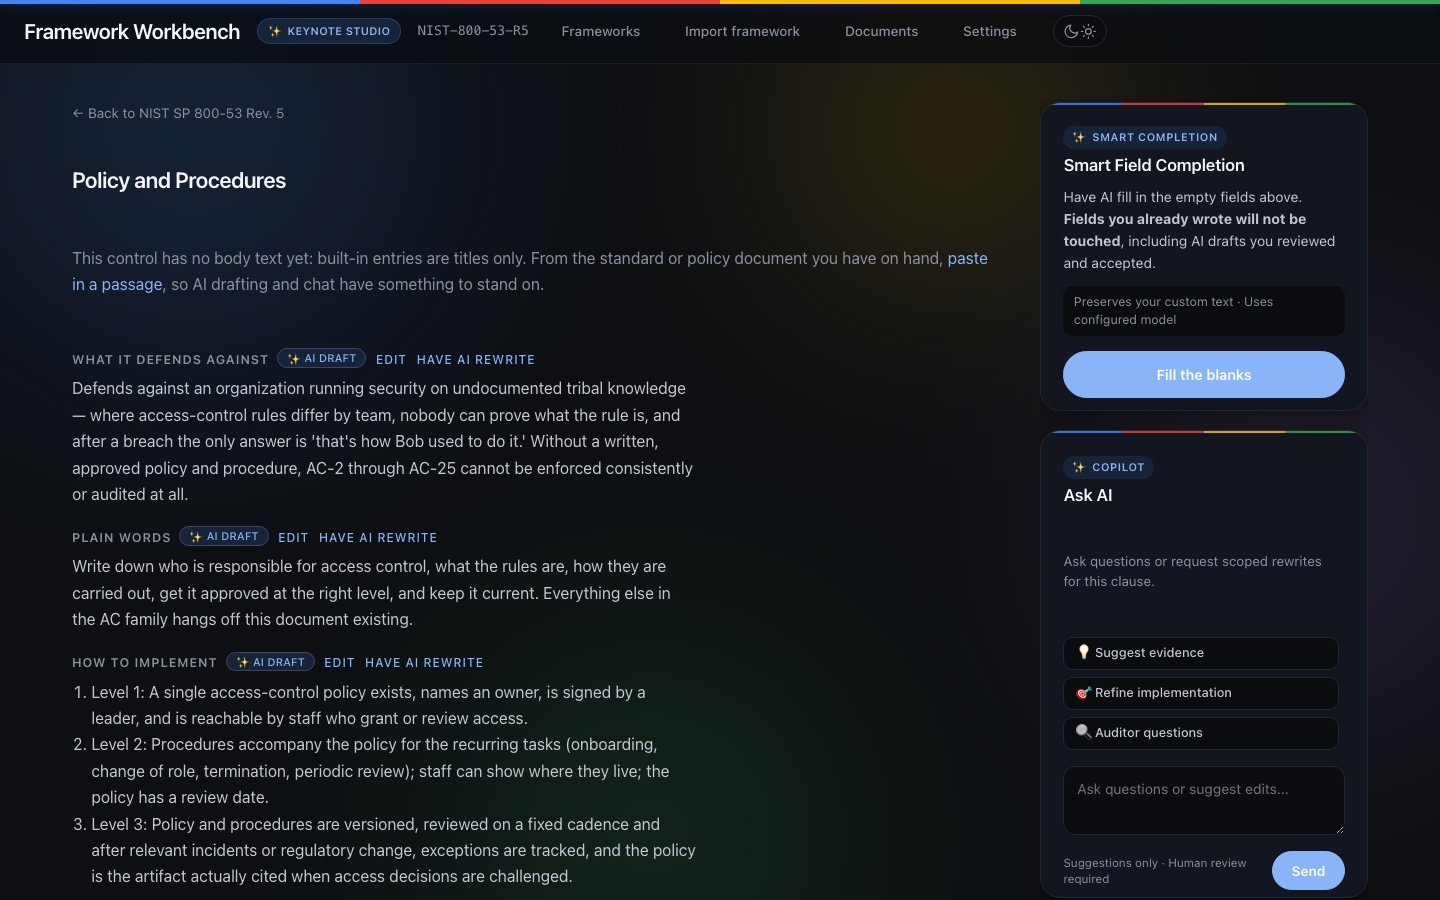
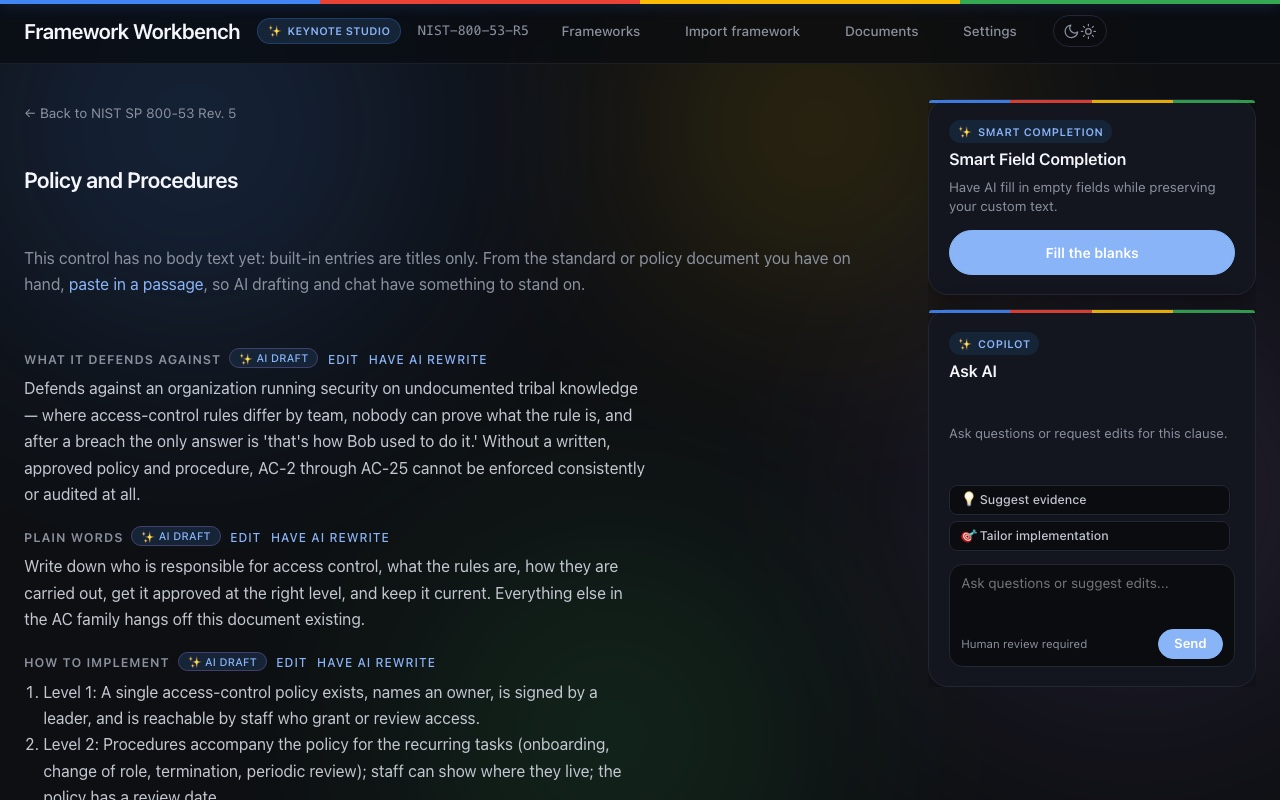
fix: restore full sticky scroll tracking and eliminate UI clipping on right sidebar

diff --git a/src/framework_reader/web/views.py b/src/framework_reader/web/views.py
@@ -1220,9 +1220,7 @@ def control(
             '<span class="card-badge confirm">🛡 Verification</span>'
             '<h4 class="card-title">Confirm Control</h4>'
             '</div>'
-            '<p>Do you stand behind the words above? Confirming records that you signed it, and when. '
-            "Any later change voids this sign-off.</p>"
-            '<div class="hint">Records signature timestamp to the audit ledger.</div>'
+            '<p class="card-desc">Do you stand behind these entries? Confirming records your signature in the audit ledger.</p>'
             '<button type="submit">I confirm this control</button>'
             "</form>"
         )
@@ -1298,14 +1296,13 @@ def _clause_chat(control_id: str, turns: list) -> str:
     prompt_chips = (
         '<div class="prompt-chips">'
         '<button type="button" class="chip" onclick="var t=this.closest(\'.chat\').querySelector(\'textarea\');t.value=this.dataset.p;t.focus();" data-p="What evidence does this control usually require?">💡 Suggest evidence</button>'
-        '<button type="button" class="chip" onclick="var t=this.closest(\'.chat\').querySelector(\'textarea\');t.value=this.dataset.p;t.focus();" data-p="Make \'How to implement\' more specific for our infrastructure">🎯 Refine implementation</button>'
-        '<button type="button" class="chip" onclick="var t=this.closest(\'.chat\').querySelector(\'textarea\');t.value=this.dataset.p;t.focus();" data-p="What will auditors verify during examination?">🔍 Auditor questions</button>'
+        '<button type="button" class="chip" onclick="var t=this.closest(\'.chat\').querySelector(\'textarea\');t.value=this.dataset.p;t.focus();" data-p="Make \'How to implement\' more specific for our infrastructure">🎯 Tailor implementation</button>'
         '</div>'
     )
 
     empty_state = (
         '<div class="chat-empty">'
-        '<p class="empty">Ask questions or request scoped rewrites for this clause.</p>'
+        '<p class="empty">Ask questions or request edits for this clause.</p>'
         + prompt_chips +
         '</div>'
     )
@@ -1321,50 +1318,54 @@ def _clause_chat(control_id: str, turns: list) -> str:
         '</div>'
         f'<div class="thread">{thread_content}</div>'
         f'<form method="post" action="/c/{control_id}/chat" class="chat-composer">'
+        '<div class="composer-box">'
         '<textarea name="message" rows="2" placeholder="Ask questions or suggest edits..."></textarea>'
         '<div class="composer-foot">'
-        '<span class="cost-hint">Suggestions only · Human review required</span>'
+        '<span class="cost-hint">Human review required</span>'
         '<button type="submit">Send</button>'
+        '</div>'
         '</div>'
         "</form></div>"
     )
 
 
 _CHAT_CSS = """
-.said{padding:.75rem .95rem;margin:0 0 .85rem;background:var(--surface);
-  border-radius:16px;border:1px solid var(--rule);box-shadow:var(--card-shadow);
+.said{padding:.65rem .85rem;margin:0 0 .75rem;background:var(--surface);
+  border-radius:14px;border:1px solid var(--rule);box-shadow:var(--card-shadow);
   word-break:break-word}
 .said.mine{background:var(--accent-soft);border-color:rgba(66,133,244,.28);
   border-top-right-radius:4px}
 .said.ai{background:var(--sunk);border-color:rgba(155,114,203,.25);
   border-top-left-radius:4px}
-.said .who{font-family:var(--han);font-size:.76rem;font-weight:600;color:var(--muted);
+.said .who{font-family:var(--han);font-size:.74rem;font-weight:600;color:var(--muted);
   display:inline-flex;align-items:center;gap:.35rem}
-.said p{margin:.35rem 0 0;white-space:pre-wrap;font-size:.9rem;line-height:1.55;color:var(--ink)}
-.said form{background:none;border:0;padding:0;box-shadow:none;margin-top:.4rem}
-.said form button.ghost{font-size:.78rem;padding:.25rem .65rem;background:var(--accent);
+.said p{margin:.3rem 0 0;white-space:pre-wrap;font-size:.88rem;line-height:1.5;color:var(--ink)}
+.said form{background:none;border:0;padding:0;box-shadow:none;margin-top:.35rem}
+.said form button.ghost{font-size:.76rem;padding:.2rem .6rem;background:var(--accent);
   border:0;color:#fff;border-radius:6px;cursor:pointer;margin-left:.4rem;font-weight:600}
 .said form button.ghost:hover{opacity:.9}
-.doing .chat-empty{padding:.15rem 0}
-.doing .chat-empty .empty{font-size:.84rem;color:var(--muted);margin:0 0 .85rem;line-height:1.5}
-.doing .prompt-chips{display:flex;flex-direction:column;gap:.45rem}
+.doing .chat-empty{padding:.1rem 0}
+.doing .chat-empty .empty{font-size:.82rem;color:var(--muted);margin:0 0 .65rem;line-height:1.45}
+.doing .prompt-chips{display:flex;flex-direction:column;gap:.35rem}
 .doing .prompt-chips .chip{background:var(--sunk);border:1px solid var(--rule);
-  border-radius:10px;padding:.45rem .7rem;font-size:.8rem;color:var(--body);
+  border-radius:8px;padding:.38rem .65rem;font-size:.78rem;color:var(--body);
   text-align:left;cursor:pointer;transition:all .2s ease;font-weight:500;
   display:flex;align-items:center;line-height:1.3}
 .doing .prompt-chips .chip:hover{background:var(--accent-soft);border-color:var(--accent);
   color:var(--accent);transform:translateX(3px)}
-.doing .chat-composer{background:none;border:0;padding:0;box-shadow:none;margin-top:.85rem}
-.doing .chat-composer textarea{width:100%;box-sizing:border-box;padding:.65rem .8rem;
-  font:inherit;font-size:.88rem;background:var(--sunk);color:var(--ink);
-  border:1px solid var(--rule);border-radius:12px;margin:0 0 .55rem;
-  resize:vertical;min-height:3.2rem;transition:border-color .2s ease,box-shadow .2s ease}
-.doing .chat-composer textarea:focus{outline:none;border-color:var(--accent);
+.doing .chat-composer{background:none;border:0;padding:0;box-shadow:none;margin-top:.7rem}
+.doing .chat-composer .composer-box{background:var(--sunk);border:1px solid var(--rule);
+  border-radius:14px;padding:.55rem .7rem .45rem;transition:border-color .2s ease,box-shadow .2s ease}
+.doing .chat-composer .composer-box:focus-within{border-color:var(--accent);
   box-shadow:0 0 0 3px var(--accent-soft)}
-.doing .composer-foot{display:flex;align-items:center;justify-content:space-between;gap:.6rem}
-.doing .cost-hint{font-size:.73rem;color:var(--muted);margin:0;line-height:1.35;flex:1}
-.doing .chat-composer button{padding:.45rem 1.15rem;font-size:.85rem;font-weight:600;
-  border-radius:980px;white-space:nowrap;cursor:pointer;flex:none}
+.doing .chat-composer textarea{width:100%;box-sizing:border-box;padding:0;margin:0 0 .35rem;
+  font:inherit;font-size:.86rem;background:transparent;color:var(--ink);
+  border:0;outline:none;resize:none;height:2.6rem;min-height:2.6rem;line-height:1.4}
+.doing .composer-foot{display:flex;align-items:center;justify-content:space-between;gap:.5rem}
+.doing .cost-hint{font-size:.72rem;color:var(--muted);margin:0;line-height:1;flex:1}
+.doing .chat-composer button{padding:.35rem .95rem;font-size:.82rem;font-weight:600;
+  border-radius:980px;white-space:nowrap;cursor:pointer;flex:none;height:1.9rem;
+  display:inline-flex;align-items:center;justify-content:center}
 """
 
 
@@ -1385,8 +1386,8 @@ def _has_blank_field(fields: dict) -> bool:
 
 def _fill_blanks_invite(control_id: str, written: bool) -> str:
     """Fill just this control's blanks. A whole-framework draft costs dozens of controls; someone who wants to try one needs an entry."""
-    what = ("fill in the empty fields above" if written
-            else "draft all seven fields for this control")
+    what = ("fill in empty fields" if written
+            else "draft all seven fields")
     button_label = "Fill the blanks" if written else "Draft this control"
     badge_label = "Smart Completion" if written else "Initial Draft"
     return (
@@ -1395,9 +1396,7 @@ def _fill_blanks_invite(control_id: str, written: bool) -> str:
         f'<span class="card-badge"><span class="gemini-sparkle">✨</span> {badge_label}</span>'
         '<h4 class="card-title">Smart Field Completion</h4>'
         '</div>'
-        f'<p>Have AI {what}. '
-        "<strong>Fields you already wrote will not be touched</strong>, including AI drafts you reviewed and accepted.</p>"
-        '<div class="hint">Preserves your custom text · Uses configured model</div>'
+        f'<p class="card-desc">Have AI {what} while preserving your custom text.</p>'
         f'<button type="submit">{button_label}</button>'
         "</form>"
     )
@@ -3130,38 +3129,39 @@ _POPUP_JS = """
 # JS exception on text selection; sticky layout is enough and should not owe another.
 _SPLIT_CSS = """
 .wrap.wide{max-width:84rem}
-.split{display:grid;grid-template-columns:minmax(0,1fr) 20.5rem;gap:2.5rem;align-items:start}
+.split{display:grid;grid-template-columns:minmax(0,1fr) 20.5rem;gap:2.5rem}
 .split .reading{min-width:0}
-.doing{position:relative}
-.doing .stuck{position:sticky;top:5.25rem;max-height:calc(100vh - 6.2rem);box-sizing:border-box;
-  display:flex;flex-direction:column;gap:1.15rem;padding:.15rem 0;
-  overflow-y:auto;overflow-x:hidden;
+.doing{position:relative;height:100%}
+.doing .stuck{position:sticky;top:4.8rem;box-sizing:border-box;
+  display:flex;flex-direction:column;gap:.9rem;padding:0;
+  max-height:calc(100vh - 5.5rem);overflow-y:auto;overflow-x:hidden;
   scrollbar-width:thin;scrollbar-color:var(--rule) transparent}
 .doing .stuck::-webkit-scrollbar{width:4px}
 .doing .stuck::-webkit-scrollbar-track{background:transparent}
 .doing .stuck::-webkit-scrollbar-thumb{background:var(--rule);border-radius:10px}
 .doing .claim,.doing .chat{margin:0;position:relative;background:var(--surface);
   border:1px solid var(--rule);border-radius:20px;box-shadow:var(--card-shadow);
-  padding:1.35rem 1.4rem;transition:border-color .25s ease,box-shadow .25s ease;
-  overflow:hidden}
+  padding:1.15rem 1.25rem 1.2rem;transition:border-color .25s ease,box-shadow .25s ease;
+  box-sizing:border-box}
 .doing .claim:hover,.doing .chat:hover{border-color:var(--card-hover-line);box-shadow:var(--card-shadow-hover)}
 .doing .claim::before,.doing .chat::before{content:"";position:absolute;top:0;left:0;right:0;
-  height:2.5px;background:var(--g-rainbow);opacity:.85}
+  height:3px;background:var(--g-rainbow);opacity:.9;border-radius:20px 20px 0 0}
 .doing .claim.confirm-card::before{background:linear-gradient(90deg,var(--success),var(--g-blue))}
-.doing .card-head{margin-bottom:.65rem}
+.doing .card-head{margin-bottom:.55rem}
 .doing .card-badge{display:inline-flex;align-items:center;gap:.35rem;font-size:.68rem;
   font-weight:600;padding:.15rem .55rem;border-radius:980px;
   background:var(--accent-soft);color:var(--accent);text-transform:uppercase;letter-spacing:.05em}
 .doing .card-badge.confirm{background:var(--success-soft);color:var(--success)}
-.doing .card-title{font-size:1.05rem;color:var(--ink);font-weight:600;margin:.4rem 0 0;text-transform:none;letter-spacing:-.01em}
-.doing .claim p{margin:0 0 .75rem;font-size:.88rem;color:var(--body);line-height:1.55}
-.doing .claim .hint{font-size:.78rem;color:var(--muted);background:var(--sunk);
-  padding:.45rem .65rem;border-radius:10px;margin:.65rem 0 .95rem;line-height:1.45}
+.doing .card-title{font-size:1.02rem;color:var(--ink);font-weight:600;margin:.35rem 0 0;text-transform:none;letter-spacing:-.01em}
+.doing .claim .card-desc{margin:.4rem 0 .85rem;font-size:.84rem;color:var(--muted);line-height:1.45}
+.doing .claim p{margin:0 0 .75rem;font-size:.86rem;color:var(--body);line-height:1.5}
+.doing .claim .hint{font-size:.76rem;color:var(--muted);background:var(--sunk);
+  padding:.4rem .6rem;border-radius:10px;margin:.5rem 0 .85rem;line-height:1.4}
 .doing .claim button{width:100%;display:flex;align-items:center;justify-content:center;
-  gap:.4rem;font-weight:600;padding:.65rem 1rem;font-size:.9rem}
+  gap:.4rem;font-weight:600;padding:.6rem 1rem;font-size:.88rem}
 .doing .claim.confirm-card button{background:var(--success);border-color:var(--success)}
 .doing .claim.confirm-card button:hover{box-shadow:0 4px 14px rgba(52,168,83,.35)}
-.doing .chat .thread{overflow-y:auto;max-height:16rem;min-height:3rem;padding-right:.35rem;
+.doing .chat .thread{overflow-y:auto;max-height:14rem;min-height:2.5rem;padding-right:.3rem;
   scrollbar-width:thin;scrollbar-color:var(--rule) transparent;display:flex;flex-direction:column}
 .doing .chat .thread::-webkit-scrollbar{width:4px}
 .doing .chat .thread::-webkit-scrollbar-thumb{background:var(--rule);border-radius:10px}
